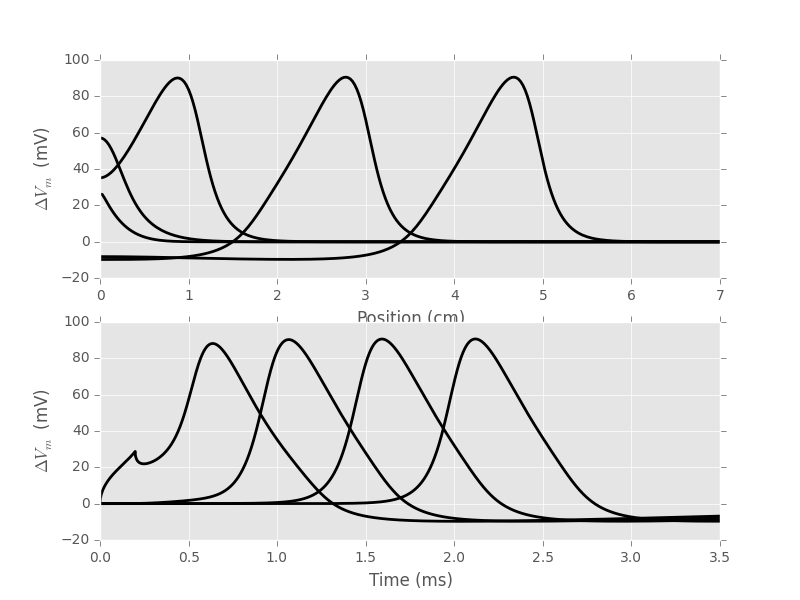
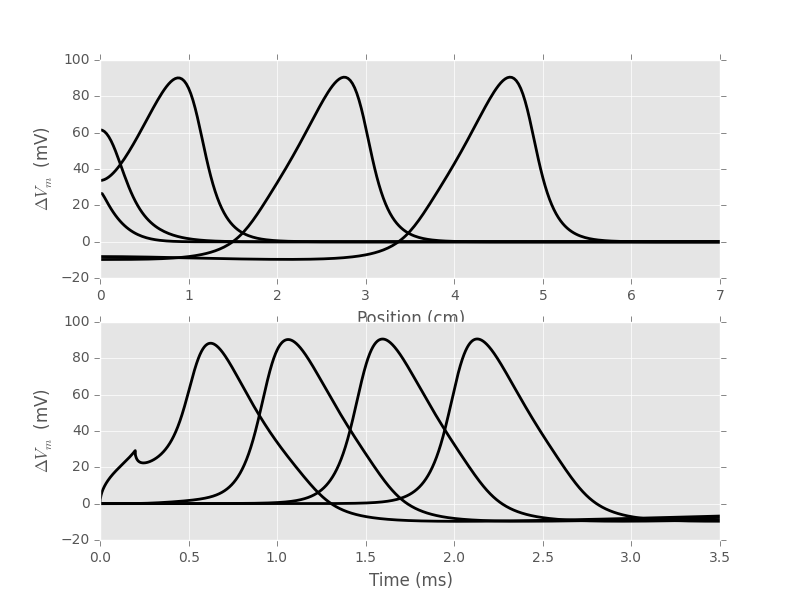
Corrections after discovering a typo in C&D 1966.

diff --git a/OriginOfTheHighFrequencyExtraCellularSignal.html b/OriginOfTheHighFrequencyExtraCellularSignal.html
@@ -3,7 +3,7 @@
 "http://www.w3.org/TR/xhtml1/DTD/xhtml1-strict.dtd">
 <html xmlns="http://www.w3.org/1999/xhtml" lang="en" xml:lang="en">
 <head>
-<!-- 2016-02-04 jeu. 17:29 -->
+<!-- 2016-02-05 ven. 16:20 -->
 <meta  http-equiv="Content-Type" content="text/html;charset=utf-8" />
 <meta  name="viewport" content="width=device-width, initial-scale=1" />
 <title>Origin Of The (High Frequency) Extra-cellular Signal</title>
@@ -1222,12 +1222,12 @@ The results are not shown since they are identical to the previous ones but you 
 <h3 id="orgheadline11"><span class="section-number-3">3.4</span> Checking against Cooley and Dodge (1966) results</h3>
 <div class="outline-text-3" id="text-3-4">
 <p>
-<a href="http://www.ncbi.nlm.nih.gov/pmc/articles/PMC1368016/">Cooley and Dodge (1966) </a>were the first to numerically solve the "full" H &amp; H model&#x2014;the one specified by equations 11-14&#x2014;and we will now reproduce their figure 2 (we get slightly different results since our stimulation is not exactly the same):
+<a href="http://www.ncbi.nlm.nih.gov/pmc/articles/PMC1368016/">Cooley and Dodge (1966) </a>were the first to numerically solve the "full" H &amp; H model&#x2014;the one specified by equations 11-14&#x2014;and we will now reproduce their figure 2. There is a typo on page 586 of the paper when Cooley and Dodge give the <code>rho</code> value they used, they give 34.5 \(\Omega{} cm\) while H &amp; H give 35.4 (p 528). It is clear that Cooley and Dodge used the H &amp; H value since if one uses the value written in their paper, one get a (slightly) faster action potential.
 </p>
 
 <div class="org-src-container">
 
-<pre class="src src-python" id="orgsrcblock32">D_cd,r_cd,lambda_cd,sim_cd = mk_cable_fcts(rho=34.5,EL=10.598,T=18.5)
+<pre class="src src-python" id="orgsrcblock32">D_cd,r_cd,lambda_cd,sim_cd = mk_cable_fcts(rho=35.4,EL=10.598,T=18.5)
 v_cd,n_cd,m_cd,h_cd = sim_cd(0.0238,7,10,0.025,0.001,2500,0.2)
 </pre>
 </div>
@@ -1274,7 +1274,7 @@ We get a speed [m/s] of:
 </div>
 
 <pre class="example">
-19.0
+18.75
 </pre>
 
 <p>
@@ -1311,14 +1311,14 @@ The traveling wave version of equation 11 is then:
 \end{align}
 
 <p>
-where \(D = \frac{a \sigma_i}{2 C_m}\) like before. If the speed \(u\) is known, this (set of) ODE(s) can be solved for \(V_0\). The game is then to find such a \(u\) for which the computed solution does not diverge (this is done by a tedious trial an error approach). Here is how it can be done using the ODE solvers of <code>Python</code>. We start by defining a "constructor" function (giving the Cooley and Dodge values as default):
+where \(D = \frac{a \sigma_i}{2 C_m}\) like before. If the speed \(u\) is known, this (set of) ODE(s) can be solved for \(V_0\). The game is then to find such a \(u\) for which the computed solution does not diverge (this is done by a tedious trial an error approach). Here is how it can be done using the ODE solvers of <code>Python</code> or some classical solvers coded by ourselves. We start by defining a "constructor" function (giving the Cooley and Dodge values as default):
 </p>
 
 <div class="org-src-container">
 
 <pre class="src src-python" id="orgsrcblock35">def mk_travel_wave(a = 0.0238,
                    Cm = 1.0,
-                   rho = 34.5, 
+                   rho = 35.4, 
                    GNa = 120.0,
                    ENa = 115.0,
                    GK = 36.0,
@@ -1375,30 +1375,60 @@ where \(D = \frac{a \sigma_i}{2 C_m}\) like before. If the speed \(u\) is known,
 </div>
 
 <p>
+Then using the <code>lsoda</code> solver of <code>ODE</code> gives rise to crashes from time to time while the Runge-Kutta solvers never end. It's therefore easier to define first a fourth order <a href="https://en.wikipedia.org/wiki/Runge%E2%80%93Kutta_methods">Runge-Kutta solver</a> that we use to initialize an <a href="https://en.wikipedia.org/wiki/Linear_multistep_method">Adams-Bashford solver</a>.
+</p>
+
+<div class="org-src-container">
+
+<pre class="src src-python" id="orgsrcblock36">def rk4(y0,t0,dt,n,F):
+    res = np.zeros((n+1,len(y0)+1))
+    res[0,1:] = y0
+    res[0,0] = t0
+    current = y0
+    dt_2 = dt/2
+    dt_6 = dt/6
+    for i in range(1,n+1):
+        k1 = F(current)
+        k2 = F(current+dt_2*k1)
+        k3 = F(current+dt_2*k2)
+        k4 = F(current+dt*k3)
+        current += (k1+2*k2+2*k3+k4)*dt_6
+        res[i,1:] = current
+        res[i,0] = t0 + dt*i
+    return res
+
+def adams5(y0,t0,dt,n,F):
+    res = np.zeros((n+1,len(y0)+1))
+    rk = rk4(y0,t0,dt,4,F)
+    res[:5,:] = rk
+    fV = np.array([F(res[i,1:]) for i in range(5)])
+    w = np.array([251/720,-637/360,109/30,-1387/360,1901/720])*dt
+    for i in range(5,n+1):
+        res[i,1:] = res[i-1,1:]+np.dot(w,fV)
+        res[i,0] = t0+dt*i
+        fV = np.roll(fV,-1,0)
+        fV[4] = F(res[i,1:])
+    return res
+</pre>
+</div>
+
+<p>
 We then define our initial condition from the values at 1 ms of the membrane potential, n, m and h variables at 3 cm of our previous "Cooley and Dodge check".
 </p>
 
 <div class="org-src-container">
 
-<pre class="src src-python" id="orgsrcblock36">y0 = [v_cd[1000,80],(v_cd[1001,80]-v_cd[1000,80])/(tt[1001]-tt[1000]),n_cd[1000,80],m_cd[1000,80],h_cd[1000,80]]
+<pre class="src src-python" id="orgsrcblock37">y0 = [v_cd[1000,80],(v_cd[1001,80]-v_cd[1000,80])/(tt[1001]-tt[1000]),n_cd[1000,80],m_cd[1000,80],h_cd[1000,80]]
 </pre>
 </div>
 
 <p>
-We then call the <code>lsoda</code> solver with:
+We call our implementation of the Admas-Bashford solver using a 0.0001 ms time step and a speed of 1.8750565461815821 mm/ms (we cannot add more decimals since we reached the machine precision!):
 </p>
 
 <div class="org-src-container">
 
-<pre class="src src-python">from scipy.integrate import ode
-F = mk_travel_wave()
-r = ode(F)
-r.set_integrator('lsoda')
-r.set_initial_value(y0,0.0)
-r.set_f_params(1.8996800434730384) ## propagation speed is set here [cm/ms]
-tt2 = np.linspace(0,10,1001)
-res = np.zeros((len(tt2),5))
-for i in range(1,len(tt2)): res[i] = r.integrate(tt2[i])
+<pre class="src src-python">res = adams5(y0,0,0.0001,30000,lambda y: np.array(F(y,0,1.8750565461815821)))
 </pre>
 </div>
 
@@ -1412,8 +1442,8 @@ We can then superpose the two solutions we got (from the full H &amp; H model of
 
 <div class="org-src-container">
 
-<pre class="src src-python" id="orgsrcblock37">plt.plot(tt-1,v_cd[:,80],lw=2)
-plt.plot(tt2,res[:,0])
+<pre class="src src-python" id="orgsrcblock38">plt.plot(tt-1,v_cd[:,80],lw=2)
+plt.plot(res[:,0],res[:,1])
 plt.ylim(-20,100)
 plt.xlabel('Time (ms)')
 plt.ylabel(r'$\Delta{}V_m$ (mV)')
@@ -1424,11 +1454,11 @@ plt.ylabel(r'$\Delta{}V_m$ (mV)')
 <div class="figure">
 <p><img src="figsL1/Cooley_and_Dodge_Traveling_wave_comp.png" alt="Cooley_and_Dodge_Traveling_wave_comp.png" />
 </p>
-<p><span class="figure-number">Figure 4:</span> Red: time course of the action potential obtained from a "full" H &amp; H model solution. Blue: time course of the action potential obtained from the traveling wave equation (44) with a speed of 18.99 m/s.</p>
+<p><span class="figure-number">Figure 4:</span> Red: time course of the action potential obtained from a "full" H &amp; H model solution. Blue: time course of the action potential obtained from the traveling wave equation (44) with a speed of 18.875 m/s.</p>
 </div>
 
 <p>
-<b>Remark that we get the same speed as the one measured from the full model giving us confidence in our codes.</b>
+The divergence after 2 ms shows that we don't have enough precision of the speed, but that enough for what we want (when adjusting the speed, we added decimal observing if the divergence was going towards \(+\infty\) or \(-\infty\)). <b>Remark that we get the same speed as the one measured from the full model giving us confidence in our codes.</b>
 </p>
 </div>
 </div>
@@ -1443,7 +1473,7 @@ Equation 10 shows an explicite axon's radius square but says nothing on the effe
 
 <div class="org-src-container">
 
-<pre class="src src-python" id="orgsrcblock38">D1(4e-4)/D1(1e-4)
+<pre class="src src-python" id="orgsrcblock39">D1(4e-4)/D1(1e-4)
 </pre>
 </div>
 
@@ -1453,7 +1483,7 @@ Equation 10 shows an explicite axon's radius square but says nothing on the effe
 
 <div class="org-src-container">
 
-<pre class="src src-python" id="orgsrcblock39">lambda1(4e-4)/lambda1(1e-4)
+<pre class="src src-python" id="orgsrcblock40">lambda1(4e-4)/lambda1(1e-4)
 </pre>
 </div>
 
@@ -1467,7 +1497,7 @@ The length constant is multiplied by 2, the diffusion coefficient by 4 so we can
 
 <div class="org-src-container">
 
-<pre class="src src-python" id="orgsrcblock40">v4,n4,m4,h4 = sim1(4e-4,4,20,2*5e-3,0.025,2000,2)
+<pre class="src src-python" id="orgsrcblock41">v4,n4,m4,h4 = sim1(4e-4,4,20,2*5e-3,0.025,2000,2)
 </pre>
 </div>
 
@@ -1477,7 +1507,7 @@ We get a graph similar to the one we got with the 1 \(\mu{}m\) radius axon with 
 
 <div class="org-src-container">
 
-<pre class="src src-python" id="orgsrcblock41">xx = np.arange(v4.shape[1])*2*5e-3
+<pre class="src src-python" id="orgsrcblock42">xx = np.arange(v4.shape[1])*2*5e-3
 for i in range(0,442,40):
     plt.plot(xx,v4[i],color='black',lw=2)
 plt.xlabel('Position (cm)')
@@ -1491,7 +1521,7 @@ To compare the spatial extensions, let us extract the time at which the spikes p
 
 <div class="org-src-container">
 
-<pre class="src src-python" id="orgsrcblock42">index_1_mu = np.argmax(v1[:,200])
+<pre class="src src-python" id="orgsrcblock43">index_1_mu = np.argmax(v1[:,200])
 index_4_mu = np.argmax(v4[:,100])
 </pre>
 </div>
@@ -1502,7 +1532,7 @@ A simple graph shows then what Goldstein and Rall (1974, <i>Biophys J</i> <b>14<
 
 <div class="org-src-container">
 
-<pre class="src src-python" id="orgsrcblock43">plt.plot(np.arange(v1.shape[1])*5e-3,v1[index_1_mu],lw=2)
+<pre class="src src-python" id="orgsrcblock44">plt.plot(np.arange(v1.shape[1])*5e-3,v1[index_1_mu],lw=2)
 plt.plot(np.arange(v4.shape[1])*2*5e-3,v4[index_4_mu],lw=2)
 plt.xlim(0.5,1.5)
 plt.xlabel('Position (cm)')
@@ -1527,7 +1557,7 @@ At that stage we could simulate a lot of cases with different radii, get the cor
 
 <div class="org-src-container">
 
-<pre class="src src-python" id="orgsrcblock44">plt.plot(np.arange(v1.shape[1])*5e-3,v1[-1],lw=2)
+<pre class="src src-python" id="orgsrcblock45">plt.plot(np.arange(v1.shape[1])*5e-3,v1[-1],lw=2)
 plt.xlabel('Position (cm)')
 plt.ylabel(r'$\Delta{}V_m$ (mV)')
 </pre>
@@ -1546,7 +1576,7 @@ We then define a function returning the membrane potential at a given position b
 
 <div class="org-src-container">
 
-<pre class="src src-python" id="orgsrcblock45">def spike(x,a=1.0,der=0,ext=1,
+<pre class="src src-python" id="orgsrcblock46">def spike(x,a=1.0,der=0,ext=1,
           xx=(np.arange(v1.shape[1])-np.argmax(v1[-1]))*50,
           yy=v1[-1]):
     from scipy import interpolate
@@ -1561,7 +1591,7 @@ We check that the function works:
 
 <div class="org-src-container">
 
-<pre class="src src-python" id="orgsrcblock46">xx = np.linspace(-7000,2000,9501)
+<pre class="src src-python" id="orgsrcblock47">xx = np.linspace(-7000,2000,9501)
 plt.plot(xx,spike(xx,2),color='red',lw=2)
 plt.plot(xx,spike(xx),color='black',lw=2)
 plt.plot(xx,spike(xx,0.5),color='blue',lw=2)
@@ -1593,7 +1623,7 @@ Tuckwell follows very closely&#x2014;with due citations&#x2014;the treatment of 
 <div id="postamble" class="status">
 <p class="date">Date: <span class="timestamp-wrapper"><span class="timestamp">&lt;2016-01-14 jeu.&gt;</span></span></p>
 <p class="author">Author: Christophe Pouzat</p>
-<p class="date">Created: 2016-02-04 jeu. 17:29</p>
+<p class="date">Created: 2016-02-05 ven. 16:20</p>
 <p class="validation"><a href="http://validator.w3.org/check?uri=referer">Validate</a></p>
 </div>
 </body>
